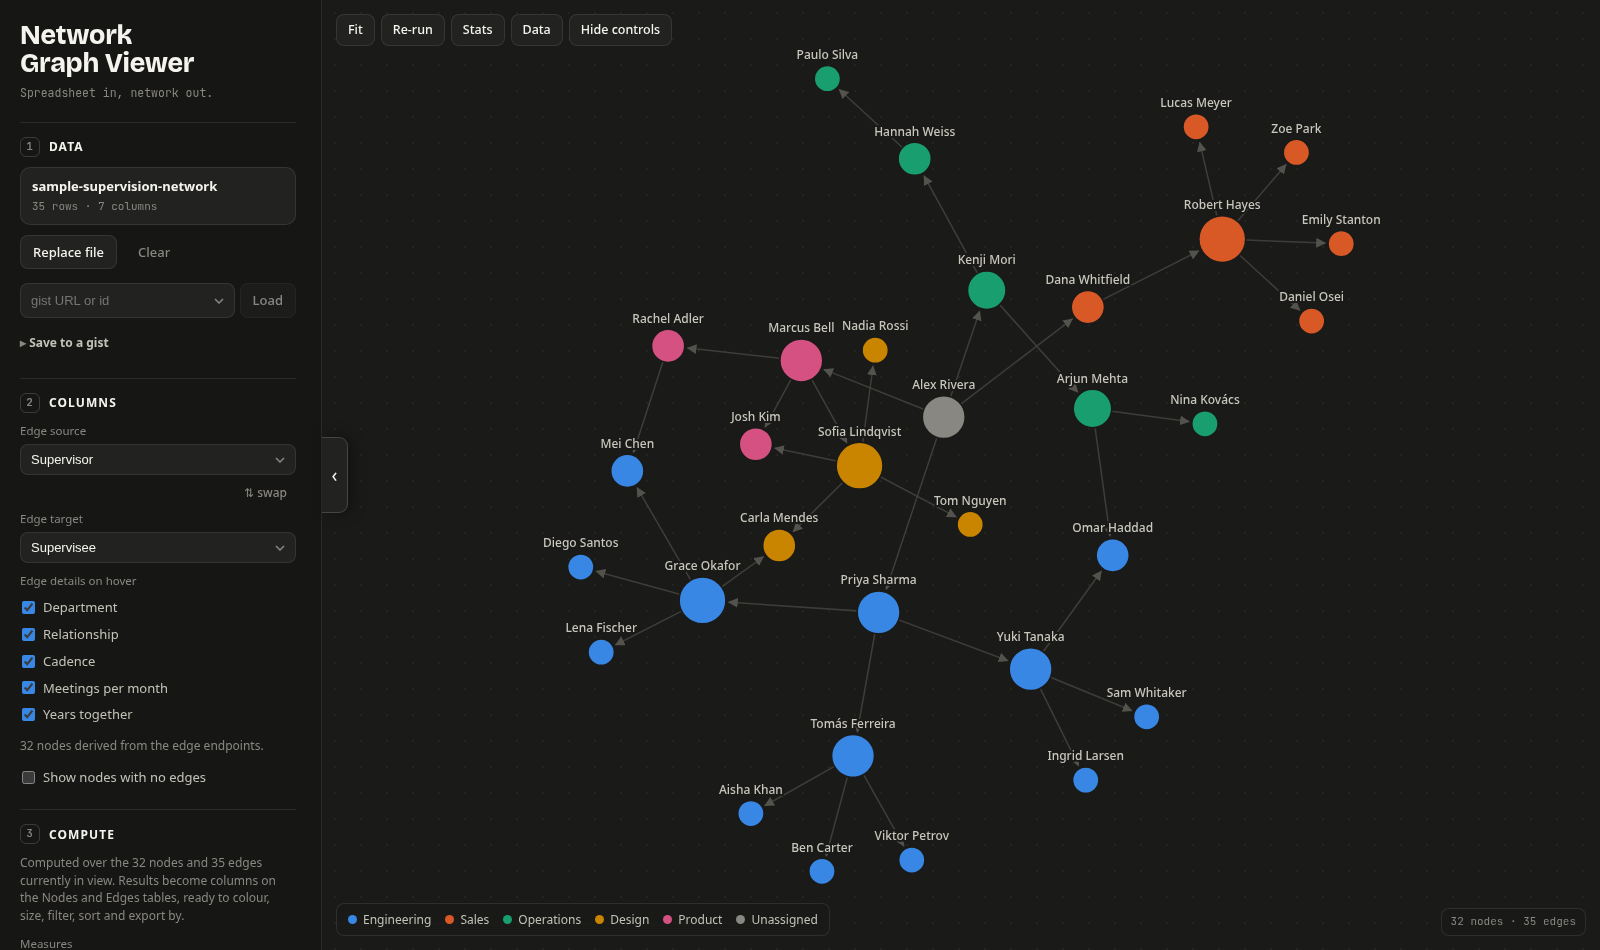
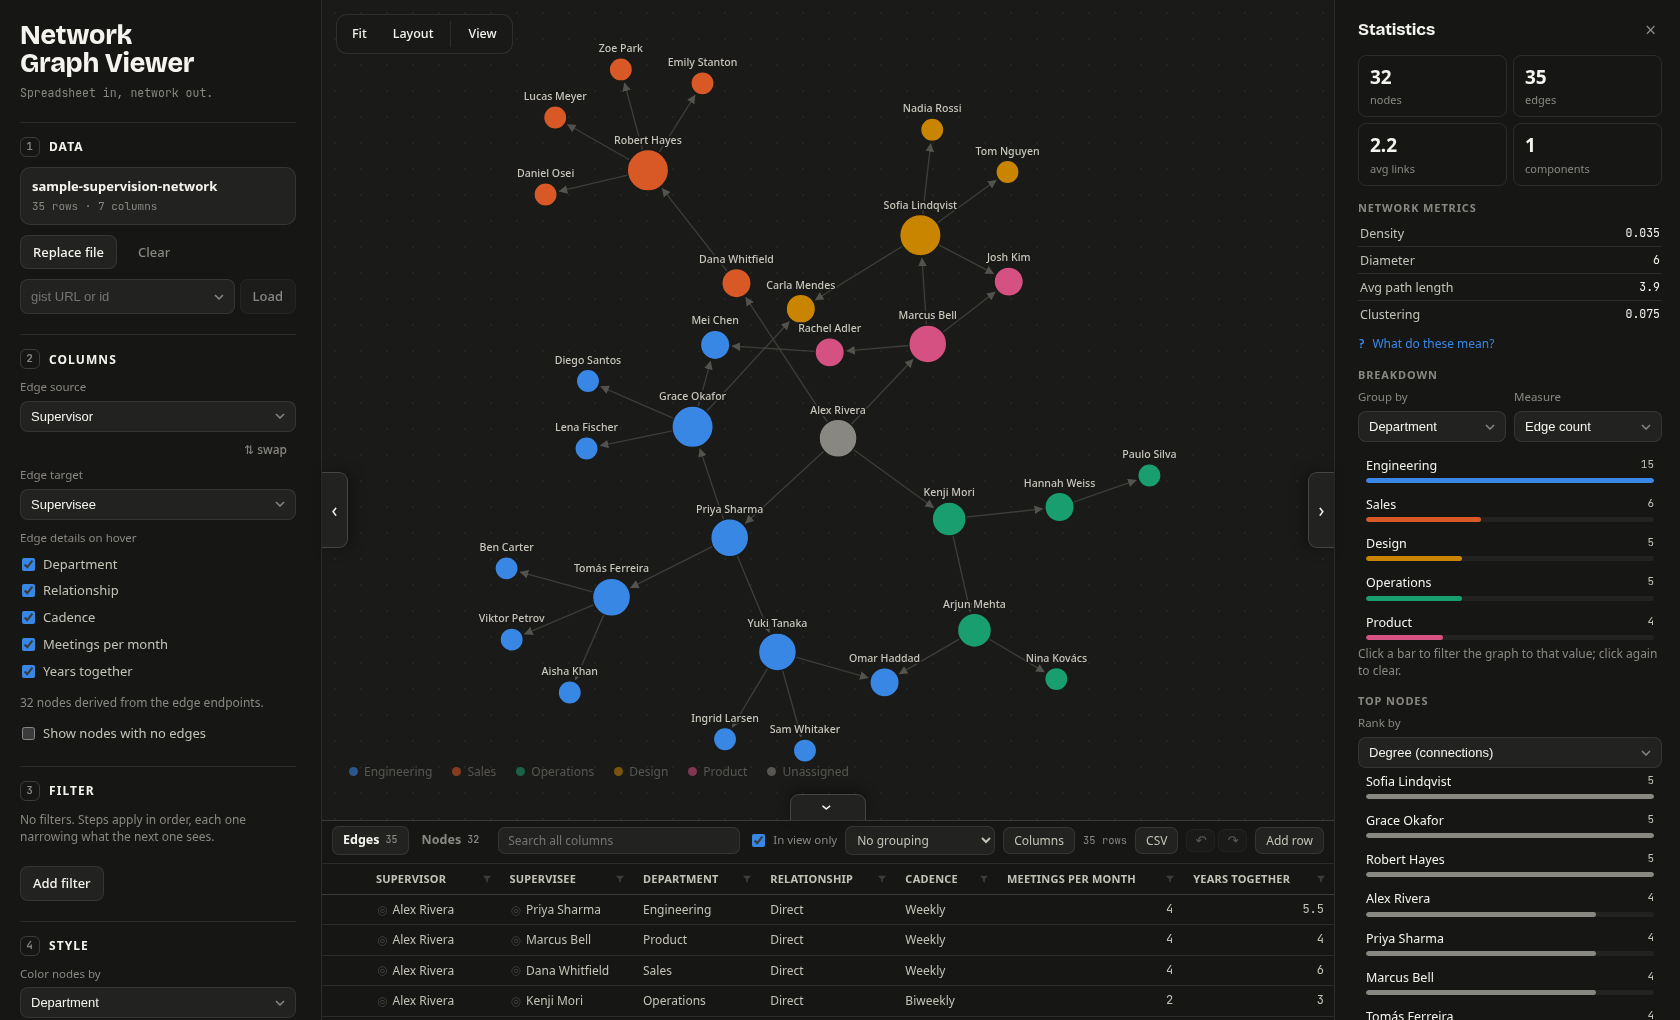
Update screenshot

diff --git a/README.md b/README.md
@@ -7,7 +7,7 @@ Turn a spreadsheet edge list into an interactive network graph, entirely in your
 
 **Live app:** https://adamsm.com/network-graph-viewer/
 
-![The sample supervision network rendered as a force-directed graph, with nodes colored by department and a sidebar for data, filters, style, and layout](docs/screenshot.png)
+![The sample supervision network as a force-directed graph, nodes coloured by department, with the sidebar for data, filters, style and layout on the left, a statistics panel of network metrics and top nodes on the right, and the edge table below](docs/screenshot.png)
 
 ## Features
 
